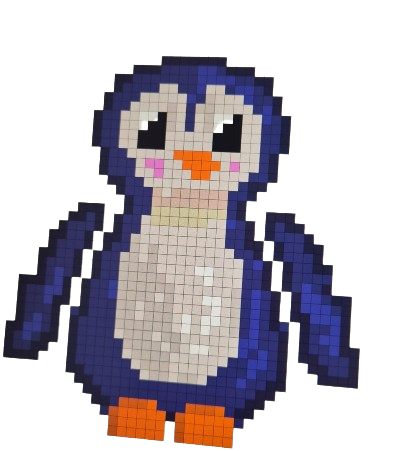
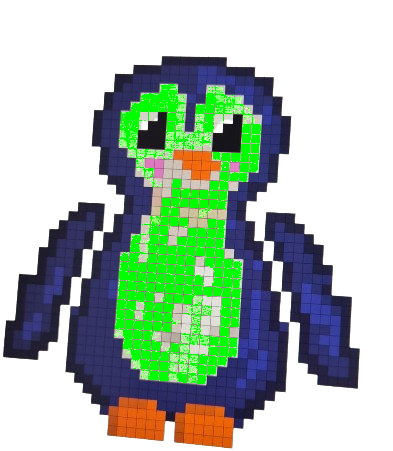
Spring animation(nicht fertig)

Changed region(s): [[0.2748, 0.1863, 0.6718, 0.8692]]

diff --git a/src/AppWindow.java b/src/AppWindow.java
@@ -25,22 +25,27 @@ public class AppWindow extends JFrame {
         this.setLayout(null);
         this.getContentPane().setBackground(Color.white);
 
+        //Urls
+        String urlsprung="src/Media/Bilder/icon.png";//Testbild
+        String urloriginal="src/Media/Bilder/penguin.png";
 
         // Bild laden
-        ImageIcon originalIconpenguin = new ImageIcon("src/Media/Bilder/penguin.png");
+        ImageIcon originalIconpenguin = new ImageIcon(urloriginal);
+        ImageIcon JumpingIconpenguin = new ImageIcon(urlsprung);
         ImageIcon originalIcontree = new ImageIcon("src/Media/Bilder/tree.png");
 
         //Icon
         this.setIconImage(originalIconpenguin.getImage());
 
         // Bild skalieren (z.B. auf 50x50 Pixel)
+        Image scaledImagejump = JumpingIconpenguin.getImage().getScaledInstance(100, 100, Image.SCALE_SMOOTH);
         Image scaledImagepenguin = originalIconpenguin.getImage().getScaledInstance(100, 100, Image.SCALE_SMOOTH);
         ImageIcon penguin = new ImageIcon(scaledImagepenguin);
 
         Image scaledImagetree = originalIcontree.getImage().getScaledInstance(100, 100, Image.SCALE_SMOOTH);
         ImageIcon tree = new ImageIcon(scaledImagetree);
 
-        // Bi  ld in ein Label setzen
+        // Bild in ein Label setzen
         charakter = new JLabel(penguin);
 
         hinderniss = new JLabel(tree);
@@ -74,6 +79,9 @@ public class AppWindow extends JFrame {
                 if (e.getKeyCode() == KeyEvent.VK_SPACE && yPos >= 250 ) {
 
                     yVelocity = -20; // Kraftvoller Sprung nach oben
+                    penguin.setImage(scaledImagejump);//nicht fertig
+
+
                     try {
                         Thread.sleep(500);//Delay um nicht direkt wieder springen zu können
                     } catch (InterruptedException s) {
@@ -105,6 +113,7 @@ public class AppWindow extends JFrame {
         if (yPos >= 250) {      //>250, da Koordinatensystem in swing anders ist. Y verläuft nach unten. Oben links ist (0|0)
             yPos = 250;
             yVelocity = 0;
+
         }
 
         // Label neu positionieren